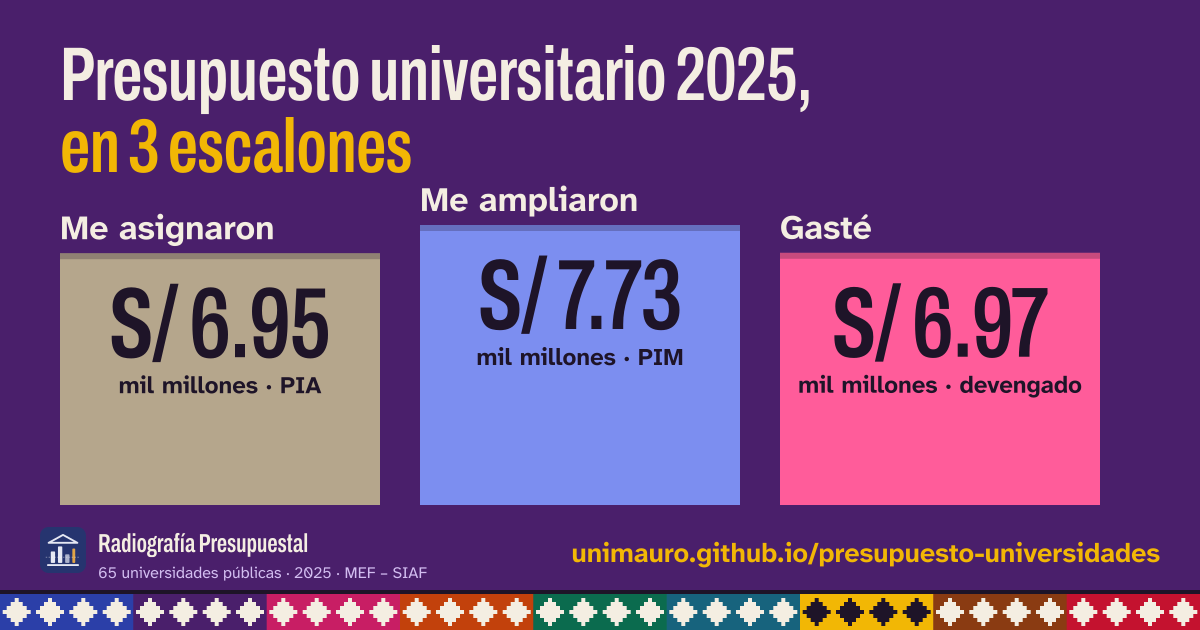
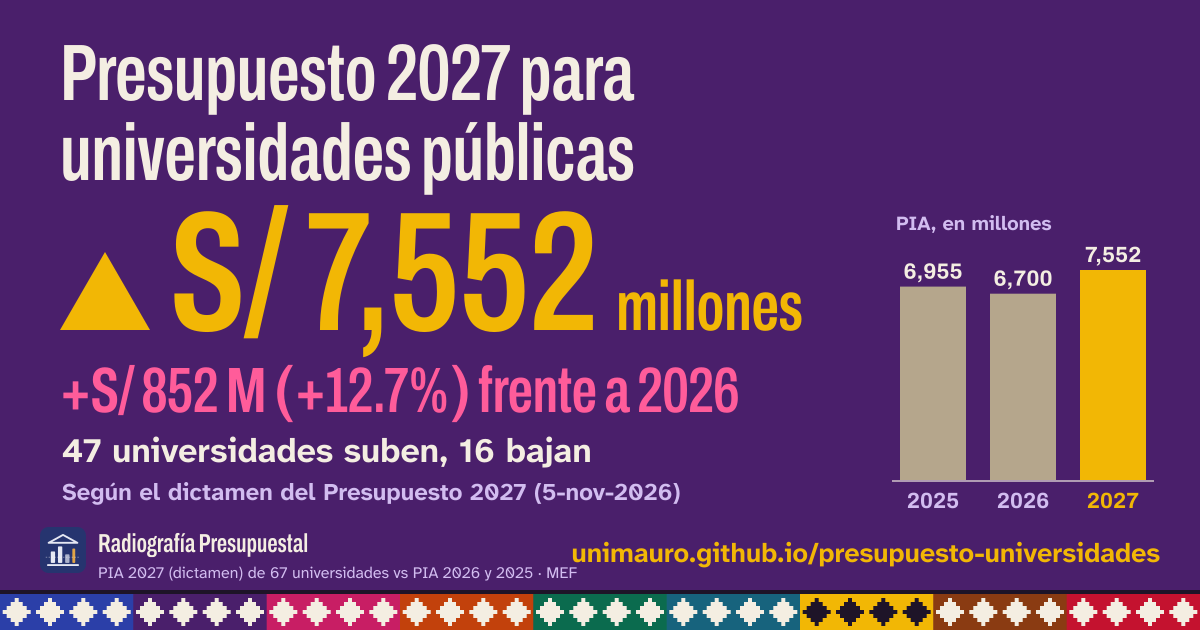
Análisis 2027: ¿a quién le dieron más? (concentración, genérica, fuente, departamentos, canon, ejecución vs aumento)

diff --git a/historias.css b/historias.css
@@ -79,7 +79,7 @@ h1{font:900 clamp(44px,13.4vw,112px)/.88 var(--font-display);font-stretch:62%;le
 .picker-list li b{font:800 17px var(--font-cifras);font-stretch:85%}
 .picker-list .op-dep{font:700 12px var(--font-cifras);border:1.5px solid currentColor;border-radius:999px;padding:1px 8px;white-space:nowrap;color:var(--color-tinta-2)}
 .picker-list .op-n{font-size:14.5px;color:var(--color-tinta-2)}
-.picker-list li mark{background:transparent;color:inherit;text-decoration:underline;text-decoration-thickness:3px;text-decoration-color:var(--color-dev);text-underline-offset:2px;padding:0}
+.picker-list li mark{background:transparent;color:inherit;text-decoration:underline;text-decoration-thickness:3px;text-decoration-color:var(--color-dev);text-decoration-skip-ink:none;text-underline-offset:2px;padding:0}
 .picker-list li[aria-selected="true"],.picker-list li:hover{background:var(--color-aji);color:#1E1428}
 .picker-list li[aria-selected="true"] .op-n,.picker-list li:hover .op-n,.picker-list li[aria-selected="true"] .op-dep,.picker-list li:hover .op-dep{color:#1E1428}
 .picker-list li[aria-selected="true"] mark,.picker-list li:hover mark{text-decoration-color:#1E1428}

diff --git a/etl/analisis2027.py b/etl/analisis2027.py
@@ -1,0 +1,144 @@
+#!/usr/bin/env python3
+"""¿A quién le dieron más en 2027? Reparto del aumento PIA 2026 → PIA 2027 (dictamen) entre universidades.
+Lee data/observatorio.json + data/ley2027/ley2027.json; escribe data/analisis2027.json. Correr después de build.py."""
+import json, os, statistics
+
+ROOT = os.path.dirname(os.path.dirname(os.path.abspath(__file__)))
+obs = json.load(open(os.path.join(ROOT, "data", "observatorio.json"), encoding="utf-8"))
+l27 = json.load(open(os.path.join(ROOT, "data", "ley2027", "ley2027.json"), encoding="utf-8"))
+
+GEN = {"personal": "2.1", "pensiones": "2.2", "bys": "2.3", "inversion": "2.6"}
+
+
+def g(d, pref):
+    return sum(v for k, v in (d or {}).items() if k.strip().startswith(pref))
+
+
+def gen26(a, pref):
+    return sum((v.get("pia") or 0) for k, v in (a.get("generica") or {}).items() if k.strip().startswith(pref))
+
+
+def fu(d, pat):
+    return sum((v if isinstance(v, (int, float)) else (v.get("pia") or 0)) for k, v in (d or {}).items() if pat in k.upper())
+
+
+rows = []
+for u in obs["universidades"]:
+    pl = u["pliego"]
+    e = l27["universidades"].get(pl)
+    a26 = u["anios"].get("2026", {})
+    a25 = u["anios"].get("2025", {})
+    pia26 = (a26.get("total") or {}).get("pia") or 0
+    if not e or not e.get("pia_2027"):
+        rows.append({"pliego": pl, "uni": u.get("corto") or u["nombre"], "nombre": u["nombre"],
+                     "departamento": u.get("departamento"), "pia_2026": pia26, "pia_2027": 0, "sin_2027": True})
+        continue
+    p27 = e["pia_2027"]
+    est = None
+    for y in ("2026", "2025", "2024", "2023"):
+        est = (u["anios"].get(y) or {}).get("estudiantes")
+        if est:
+            break
+    k25 = a25.get("kpi") or {}
+    r = {"pliego": pl, "uni": u.get("corto") or u["nombre"], "nombre": u["nombre"],
+         "departamento": u.get("departamento"), "creacion": u.get("creacion"),
+         "pia_2026": pia26, "pim_2026": (a26.get("total") or {}).get("pim"), "pia_2027": p27,
+         "delta": p27 - pia26, "var_pct": (p27 / pia26 - 1) if pia26 else None, "nueva": not pia26,
+         "estudiantes": est, "ejec_2025": k25.get("ejec"), "ejec_proy_2025": k25.get("ejec_proyectos"),
+         "dev_2025": (a25.get("total") or {}).get("dev")}
+    # descomposición del delta por genérica y por fuente
+    for k, pref in GEN.items():
+        r[f"d_{k}"] = g(e.get("generica"), pref) - gen26(a26, pref)
+    r["d_otros"] = r["delta"] - sum(r[f"d_{k}"] for k in GEN)
+    for k, pat in (("ro", "ORDINARIOS"), ("rdr", "DIRECTAMENTE"), ("rd", "DETERMINADOS"), ("dyt", "DONACIONES")):
+        r[f"f_{k}"] = fu(e.get("fuente"), pat) - fu(a26.get("fuente"), pat)
+    r["por_estudiante_2027"] = round(p27 / est) if est else None
+    r["por_estudiante_2026"] = round(pia26 / est) if est and pia26 else None
+    rows.append(r)
+
+con = [r for r in rows if not r.get("sin_2027")]
+tot_d = sum(r["delta"] for r in con)
+sube = sorted([r for r in con if r["delta"] > 0], key=lambda r: -r["delta"])
+baja = sorted([r for r in con if r["delta"] < 0], key=lambda r: r["delta"])
+top5 = sum(r["delta"] for r in sube[:5])
+top10 = sum(r["delta"] for r in sube[:10])
+
+comp = {k: sum(r[f"d_{k}"] for r in con) for k in list(GEN) + ["otros"]}
+fuentes = {k: sum(r[f"f_{k}"] for r in con) for k in ("ro", "rdr", "rd", "dyt")}
+
+dep = {}
+for r in con:
+    d = r.get("departamento") or "Sin dato"
+    x = dep.setdefault(d, {"departamento": d, "pia_2026": 0, "pia_2027": 0, "n": 0})
+    x["pia_2026"] += r["pia_2026"]; x["pia_2027"] += r["pia_2027"]; x["n"] += 1
+for x in dep.values():
+    x["delta"] = x["pia_2027"] - x["pia_2026"]
+    x["var_pct"] = (x["pia_2027"] / x["pia_2026"] - 1) if x["pia_2026"] else None
+deps = sorted(dep.values(), key=lambda x: -x["delta"])
+
+
+# ¿Reciben más las que ejecutan mejor? (correlación de rangos simple entre ejecución 2025 y var % 2027)
+def spearman(xs, ys):
+    def rk(v):
+        o = sorted(range(len(v)), key=lambda i: v[i]); r = [0] * len(v)
+        for pos, i in enumerate(o):
+            r[i] = pos
+        return r
+    rx, ry = rk(xs), rk(ys)
+    mx, my = statistics.mean(rx), statistics.mean(ry)
+    num = sum((a - mx) * (b - my) for a, b in zip(rx, ry))
+    den = (sum((a - mx) ** 2 for a in rx) * sum((b - my) ** 2 for b in ry)) ** 0.5
+    return round(num / den, 2) if den else None
+
+
+par = [(r["ejec_2025"], r["var_pct"]) for r in con if r.get("ejec_2025") is not None and r.get("var_pct") is not None
+       and r["pia_2026"] >= 10e6]
+rho_ejec = spearman([a for a, _ in par], [b for _, b in par]) if len(par) > 5 else None
+par2 = [(r["ejec_proy_2025"], r["d_inversion"]) for r in con if r.get("ejec_proy_2025") is not None]
+rho_inv = spearman([a for a, _ in par2], [b for _, b in par2]) if len(par2) > 5 else None
+
+# Las que bajan: ¿por qué? (qué genérica explica la caída)
+for r in baja:
+    caidas = {k: r[f"d_{k}"] for k in list(GEN) + ["otros"]}
+    r["explica"] = min(caidas, key=caidas.get)
+
+pe = [r for r in con if r.get("por_estudiante_2027") and r.get("por_estudiante_2026")]
+out = {
+    "fuente": "Dictamen Presupuesto 2027 (anexos 4 y 5 del proyecto) vs PIA 2026 (SIAF, Consulta Amigable MEF)",
+    "notas": [
+        "Montos nominales. PIA 2026 vs PIA 2027: compara el presupuesto con el que arranca cada año.",
+        "Los anexos de la autógrafa aprobada el 20-nov-2026 no están publicados; los montos por universidad pueden variar.",
+        "Descomposición por genérica: PIA 2027 (Anexo 5) menos PIA 2026 (SIAF) por genérica.",
+        "Correlaciones de Spearman con universidades de PIA 2026 ≥ S/ 10 M; describen asociación, no causalidad.",
+    ],
+    "total": {"pia_2026": sum(r["pia_2026"] for r in con), "pia_2027": sum(r["pia_2027"] for r in con),
+              "delta": tot_d, "n_suben": len(sube), "n_bajan": len(baja),
+              "n_sin_2027": sum(1 for r in rows if r.get("sin_2027")),
+              "top5_delta": top5, "top5_pct_del_aumento": top5 / tot_d if tot_d else None,
+              "top10_pct_del_aumento": top10 / tot_d if tot_d else None,
+              "suma_subidas": sum(r["delta"] for r in sube), "suma_bajadas": sum(r["delta"] for r in baja)},
+    "por_generica": comp, "por_fuente": fuentes,
+    "rho_ejecucion_vs_aumento": rho_ejec, "rho_ejec_proyectos_vs_aumento_inversion": rho_inv,
+    "por_departamento": deps,
+    "por_estudiante": {"mediana_2026": statistics.median([r["por_estudiante_2026"] for r in pe]) if pe else None,
+                       "mediana_2027": statistics.median([r["por_estudiante_2027"] for r in pe]) if pe else None,
+                       "n": len(pe)},
+    "universidades": sorted(rows, key=lambda r: -(r.get("delta") or 0)),
+}
+json.dump(out, open(os.path.join(ROOT, "data", "analisis2027.json"), "w", encoding="utf-8"),
+          ensure_ascii=False, separators=(",", ":"), default=lambda x: round(x, 4) if isinstance(x, float) else x)
+
+M = lambda x: f"S/ {x/1e6:,.1f} M"
+t = out["total"]
+print(f"Aumento total {M(t['delta'])}: {t['n_suben']} suben ({M(t['suma_subidas'])}), {t['n_bajan']} bajan ({M(t['suma_bajadas'])}), {t['n_sin_2027']} sin 2027")
+print(f"Top 5 se llevan {t['top5_pct_del_aumento']:.0%} del aumento neto; top 10 {t['top10_pct_del_aumento']:.0%}")
+for r in sube[:8]:
+    print(f"  ▲ {r['uni']:<28} {M(r['delta']):>12} ({(r['var_pct'] or 0):+.0%})  inv {M(r['d_inversion'])}  canon/RD {M(r['f_rd'])}")
+for r in baja[:6]:
+    print(f"  ▼ {r['uni']:<28} {M(r['delta']):>12} ({(r['var_pct'] or 0):+.0%})  explica: {r['explica']}")
+print("Por genérica:", {k: M(v) for k, v in comp.items()})
+print("Por fuente:", {k: M(v) for k, v in fuentes.items()})
+print("rho ejecución 2025 vs var% 2027:", rho_ejec, "| rho ejec proyectos vs Δ inversión:", rho_inv)
+print("Departamentos top:", [(d["departamento"], M(d["delta"])) for d in deps[:5]])
+print("Departamentos bajan:", [(d["departamento"], M(d["delta"])) for d in deps[-4:]])
+print("Por estudiante mediana:", out["por_estudiante"])

diff --git a/etl/og_generar.py b/etl/og_generar.py
@@ -6,7 +6,7 @@ cifra gigante en Archivo extra condensada 900, textos en Atkinson Hyperlegible N
 rombos escalonados con los colores de capítulo.
 
 Salidas (SVG + PNG vía rsvg-convert):
-  assets/og/og.png              -> index.html (copia de la variante elegida, ver ELEGIDA)
+  assets/og/og.png              -> index.html: "Presupuesto 2027 para universidades públicas" (og_principal_2027)
   assets/og/og-historias.png    -> historias.html
   assets/og/og-2027.png         -> "Lo que viene en 2027" (signo de interrogación si aún no hay datos)
   assets/og/variantes/          -> variantes del OG principal y la versión clara de historias
@@ -39,7 +39,7 @@ SAMPLE = ROOT / "data" / "sample" / "observatorio.json"
 OUT = ROOT / "assets" / "og"
 VAR = OUT / "variantes"
 URL = "unimauro.github.io/presupuesto-universidades"
-ELEGIDA = "og-a-escalones"   # variante copiada como og.png
+# og.png = portada 2027 (pedido del usuario: que 2027 sea lo primero que se vea); los escalones 2025 quedan en variantes/.
 
 # Paleta v2 (BRAND.md §1-2)
 PAPEL = "#F4EEE2"; PAPEL2 = "#EAE1CF"; TINTA = "#1E1428"; TINTA2 = "#5E5468"
@@ -301,6 +301,52 @@ def og_2027(d, sample):
     return lienzo("\n".join(c), sample=sample, fuente=fuente)
 
 
+# ---------- OG principal: presupuesto 2027 ----------
+def og_principal_2027(d, y, T, sample):
+    """Requiere expectativa_2027 (resumen.json). Suben/bajan: universidades con PIA en 2026 y 2027."""
+    e = d.get("expectativa_2027") or {}
+    tu = e.get("total_universidades") or {}
+    p27, p26 = tu.get("pia_2027"), tu.get("pia_2026")
+    if not (p27 and p26):
+        return None
+    var_abs = p27 - p26
+    var_pct = tu.get("var_pct") if tu.get("var_pct") is not None else (p27 / p26 - 1) * 100
+    suben = bajan = 0
+    for u in d["universidades"]:
+        ue = u.get("expectativa_2027") or {}
+        a, b = ue.get("pia_2027"), ue.get("pia_2026")
+        if a and b:
+            suben += a > b
+            bajan += a < b
+    signo = "+" if var_abs >= 0 else "−"
+    etapa = ETAPA_2027.get(str(e.get("version") or "").lower(), "Según el Presupuesto 2027 en trámite")
+    fecha = fecha_corta(e.get("fecha"))
+    c = [disp(60, 100, "Presupuesto 2027 para", 80),
+         disp(60, 180, "universidades públicas", 80),
+         # flecha ▲ dibujada (no depende del glifo)
+         f'<polygon points="60,330 150,330 105,252" fill="{AJI}"/>',
+         (f'<text x="170" y="330" font-family="{DISPLAY}" font-weight="900" font-size="170" fill="{AJI}" letter-spacing="-0.5">'
+          f'S/{NB}{round(p27 / 1e6):,}<tspan font-size="70" dx="18">millones</tspan></text>'),
+         disp(60, 412, f"{signo}S/{NB}{abs(var_abs) / 1e6:,.0f}{NB}M ({signo}{abs(var_pct):.1f}%) frente a 2026", 64, DEV_O),
+         t(62, 462, f"{suben} universidades suben, {bajan} bajan", 34, PAPEL, TEXTO, "700"),
+         t(62, 500, f"{etapa}{f' ({fecha})' if fecha else ''}", 24, LILA, TEXTO, "700")]
+    # Mini gráfico: PIA 2025, 2026 y 2027 (barras desde cero)
+    serie = [(y, T["pia"], PIA_O), ("2026", p26, PIA_O), ("2027", p27, AJI)]
+    top = max(v for _, v, _ in serie)
+    bx, base, bw, bg, hmax = 900, 480, 66, 24, 210
+    c.append(t(bx - 4, base - hmax - 40, "PIA, en millones", 20, LILA, TEXTO, "700"))
+    for i, (lab, v, col) in enumerate(serie):
+        h = hmax * v / top
+        x = bx + i * (bw + bg)
+        c.append(f'<rect x="{x}" y="{base - h:.1f}" width="{bw}" height="{h:.1f}" fill="{col}"/>')
+        c.append(t(x + bw / 2, base - h - 8, f"{round(v / 1e6):,}", 22, PAPEL, CIFRAS, "700", "middle"))
+        c.append(t(x + bw / 2, base + 28, lab, 22, AJI if lab == "2027" else LILA, CIFRAS, "700", "middle"))
+    c.append(f'<rect x="{bx - 8}" y="{base}" width="{3 * bw + 2 * bg + 16}" height="2" fill="{PAPEL}" opacity=".6"/>')
+    n = tu.get("n_pliegos_2027")
+    fuente = f"PIA 2027 ({e.get('version', 'proyecto')}) de {n} universidades vs PIA 2026 y {y} · MEF" if n else "PIA 2027 vs PIA 2026 · MEF"
+    return lienzo("\n".join(c), sample=sample, fuente=fuente)
+
+
 # ---------- línea base: peso de las universidades en el presupuesto del Estado ----------
 def og_linea_base(d, y, sample):
     b = ((d.get("baseline") or {}).get("anios") or {}).get(y) or {}
@@ -378,9 +424,13 @@ def main():
     variantes = {"og-a-escalones": og_escalones, "og-b-nadie": og_nadie, "og-c-expectativa": og_expectativa}
     for nombre, fn in variantes.items():
         print("  ", render(fn(d, y, T, sample), nombre, VAR).relative_to(ROOT))
-    shutil.copyfile(VAR / f"{ELEGIDA}.svg", OUT / "og.svg")
-    shutil.copyfile(VAR / f"{ELEGIDA}.png", OUT / "og.png")
-    print("   assets/og/og.png <-", ELEGIDA)
+    principal = og_principal_2027(d, y, T, sample)
+    if principal:
+        print("  ", render(principal, "og", OUT).relative_to(ROOT), "(portada 2027)")
+    else:   # sin datos 2027: la portada vuelve a ser los escalones del último año cerrado
+        shutil.copyfile(VAR / "og-a-escalones.svg", OUT / "og.svg")
+        shutil.copyfile(VAR / "og-a-escalones.png", OUT / "og.png")
+        print("   assets/og/og.png <- og-a-escalones (sin expectativa_2027)")
     print("  ", render(og_historias(d, y, T, sample), "og-historias", OUT).relative_to(ROOT))
     print("  ", render(og_historias(d, y, T, sample, claro=True), "og-historias-clara", VAR).relative_to(ROOT))
     print("  ", render(og_2027(d, sample), "og-2027", OUT).relative_to(ROOT))

diff --git a/assets/hero/generar_hero.py b/assets/hero/generar_hero.py
@@ -195,7 +195,6 @@ def hero_escritorio(serie):
     o.append(poli(fondo + [(600, H), (0, H)], TITICACA))
     o.append(nevado((78, 286), (128, 196), (186, 292), 30, PAPEL))
     o.append(nevado((418, 300), (474, 176), (528, 270), 34, PAPEL))
-        o.append(poli(escalonada(nev, 7), PAPEL, ' opacity=".92"'))
     # cerros medios (maíz) con andenes
     medio_i = escalonada([(0, 352), (70, 300), (150, 340), (215, 392)], 12)
     medio_d = escalonada([(380, 396), (450, 330), (520, 296), (600, 334)], 12)
@@ -233,7 +232,6 @@ def hero_movil(serie):
     o.append(poli(fondo + [(W, H), (0, H)], TITICACA))
     o.append(nevado((64, 84), (96, 46), (132, 92), 13, PAPEL))
     o.append(nevado((246, 98), (282, 40), (318, 86), 16, PAPEL))
-        o.append(poli(escalonada(nev, 4), PAPEL, ' opacity=".92"'))
     mi = escalonada([(0, 116), (50, 92), (100, 112), (128, 132)], 7) + [(128, H), (0, H)]
     md = escalonada([(250, 134), (300, 104), (340, 92), (375, 108)], 7) + [(375, H), (250, H)]
     o.append(f'<clipPath id="cmm">{poli(mi, "#000")}{poli(md, "#000")}</clipPath>')

diff --git a/docs/ANALISIS_2027.md b/docs/ANALISIS_2027.md
@@ -1,0 +1,77 @@
+# ¿A quién le dieron más en 2027?
+
+Reparto del aumento del presupuesto de apertura (PIA) de las universidades públicas entre 2026 y 2027.
+
+**Fuente:** dictamen del Presupuesto 2027 (5-nov-2026), anexos 4 y 5 del proyecto, comparado contra el PIA 2026 del SIAF (Consulta Amigable del MEF). Montos nominales. El Pleno aprobó la autógrafa el 20-nov-2026, pero sus anexos por universidad todavía no están publicados, así que los montos pueden variar.
+
+**Cómo regenerarlo:** `python3 etl/build.py && python3 etl/analisis2027.py`. El resultado queda en `data/analisis2027.json`.
+
+## Total
+
+- **PIA 2026:** S/ 6,700.1 M.
+- **PIA 2027:** S/ 7,551.8 M.
+- **Aumento neto:** **+S/ 851.6 M (+12.7 %)**.
+- **Suben:** 51 universidades, que suman +S/ 1,008.9 M. De ellas, 47 ya tenían PIA en 2026 y 4 son nuevas (sin PIA 2026).
+- **Bajan:** 16 universidades, que suman −S/ 157.2 M.
+- **Sin monto 2027:** 4 universidades (578, 579, 582 y 583). El art. 87 prevé financiar su arranque con la reserva de contingencia, sin monto fijado.
+
+## Concentración
+
+- **Las 5 que más suben se llevan el 52 % del aumento neto,** y las 10 primeras, el 76 %.
+
+| Universidad | Δ PIA 2027 vs 2026 | Δ % | Δ en inversión | Δ en recursos determinados (canon) |
+|---|---|---|---|---|
+| U.N. del Santa (Áncash) | +S/ 131.2 M | +129 % | +S/ 124.0 M | +S/ 114.6 M |
+| U.N. Ciro Alegría (La Libertad) | +S/ 96.2 M | +334 % | +S/ 96.5 M | +S/ 96.2 M |
+| U.N. San Agustín (Arequipa) | +S/ 84.3 M | +23 % | +S/ 69.2 M | −S/ 4.7 M |
+| U.N. Mayor de San Marcos (Lima) | +S/ 71.3 M | +11 % | +S/ 60.8 M | +S/ 0.2 M |
+| U.N. Santiago Antúnez de Mayolo (Áncash) | +S/ 57.7 M | +51 % | +S/ 52.2 M | +S/ 43.6 M |
+
+## En qué va el aumento
+
+| Genérica | Δ 2027 vs 2026 |
+|---|---|
+| Inversión (2.6, activos no financieros) | **+S/ 592.5 M (70 %)** |
+| Personal (2.1) | +S/ 207.4 M |
+| Bienes y servicios (2.3) | +S/ 41.3 M |
+| Otros | +S/ 16.6 M |
+| Pensiones (2.2) | −S/ 6.1 M |
+
+## De dónde sale
+
+| Fuente | Δ 2027 vs 2026 |
+|---|---|
+| Recursos directamente recaudados (RDR) | +S/ 292.3 M |
+| Recursos determinados (canon y similares) | +S/ 266.0 M |
+| Recursos ordinarios | +S/ 244.5 M |
+| Donaciones y transferencias | +S/ 48.9 M |
+
+El aumento de RDR es una **proyección de recaudación propia**. El PIA de RDR suele estar subestimado y se amplía durante el año, así que parte de esa subida puede ser un ajuste contable y no plata nueva.
+
+## Quién baja y por qué
+
+Casi todas las bajadas se explican por **menos inversión financiada con canon**:
+
+| Universidad | Δ total | Δ en inversión | Δ en canon (RD) |
+|---|---|---|---|
+| U.N. Intercultural de Quillabamba (Cusco) | −S/ 30.5 M (−39 %) | −S/ 29.9 M | −S/ 19.0 M |
+| U.N. de Arte Diego Quispe Tito (Cusco) | −S/ 22.4 M (−33 %) | −S/ 21.9 M | −S/ 21.5 M |
+| U.N. San Antonio Abad (Cusco) | −S/ 20.3 M (−5 %) | −S/ 33.5 M | −S/ 33.3 M |
+| U.N. Altoandina de Tarma (Junín) | −S/ 17.4 M (−39 %) | −S/ 17.1 M | (recursos ordinarios −S/ 18.7 M) |
+| U.N. de Moquegua | −S/ 13.8 M (−18 %) | −S/ 10.7 M | −S/ 10.0 M |
+
+- **Cusco** es el único departamento con una caída fuerte: **−S/ 73.3 M**. Las tres universidades de la región pierden recursos determinados. La hipótesis es una menor proyección del canon gasífero de Camisea; **no está verificada con la transferencia de canon por recurso.**
+- **Los departamentos que más ganan** son Áncash (+S/ 188.9 M), La Libertad (+S/ 152.2 M), Lima (+S/ 126.9 M), Arequipa (+S/ 84.3 M) y Cajamarca (+S/ 59.7 M).
+
+## ¿Reciben más las que ejecutan mejor?
+
+No se observa relación:
+
+- La correlación de rangos entre la ejecución de 2025 y la variación % del PIA 2027 es **ρ = −0.01**.
+- La correlación entre la ejecución de proyectos en 2025 y el aumento en inversión 2027 es **ρ = 0.06**.
+
+El reparto parece seguir sobre todo al **canon disponible** y a la cartera de proyectos, no al desempeño de ejecución. Es una asociación descriptiva, no un juicio causal.
+
+## Por estudiante
+
+En las 48 universidades con matrícula (SIRIES 2023), la mediana del PIA por estudiante pasa de **S/ 18,954 (2026)** a **S/ 20,752 (2027)**. Ojo: la matrícula usada es de 2023.
